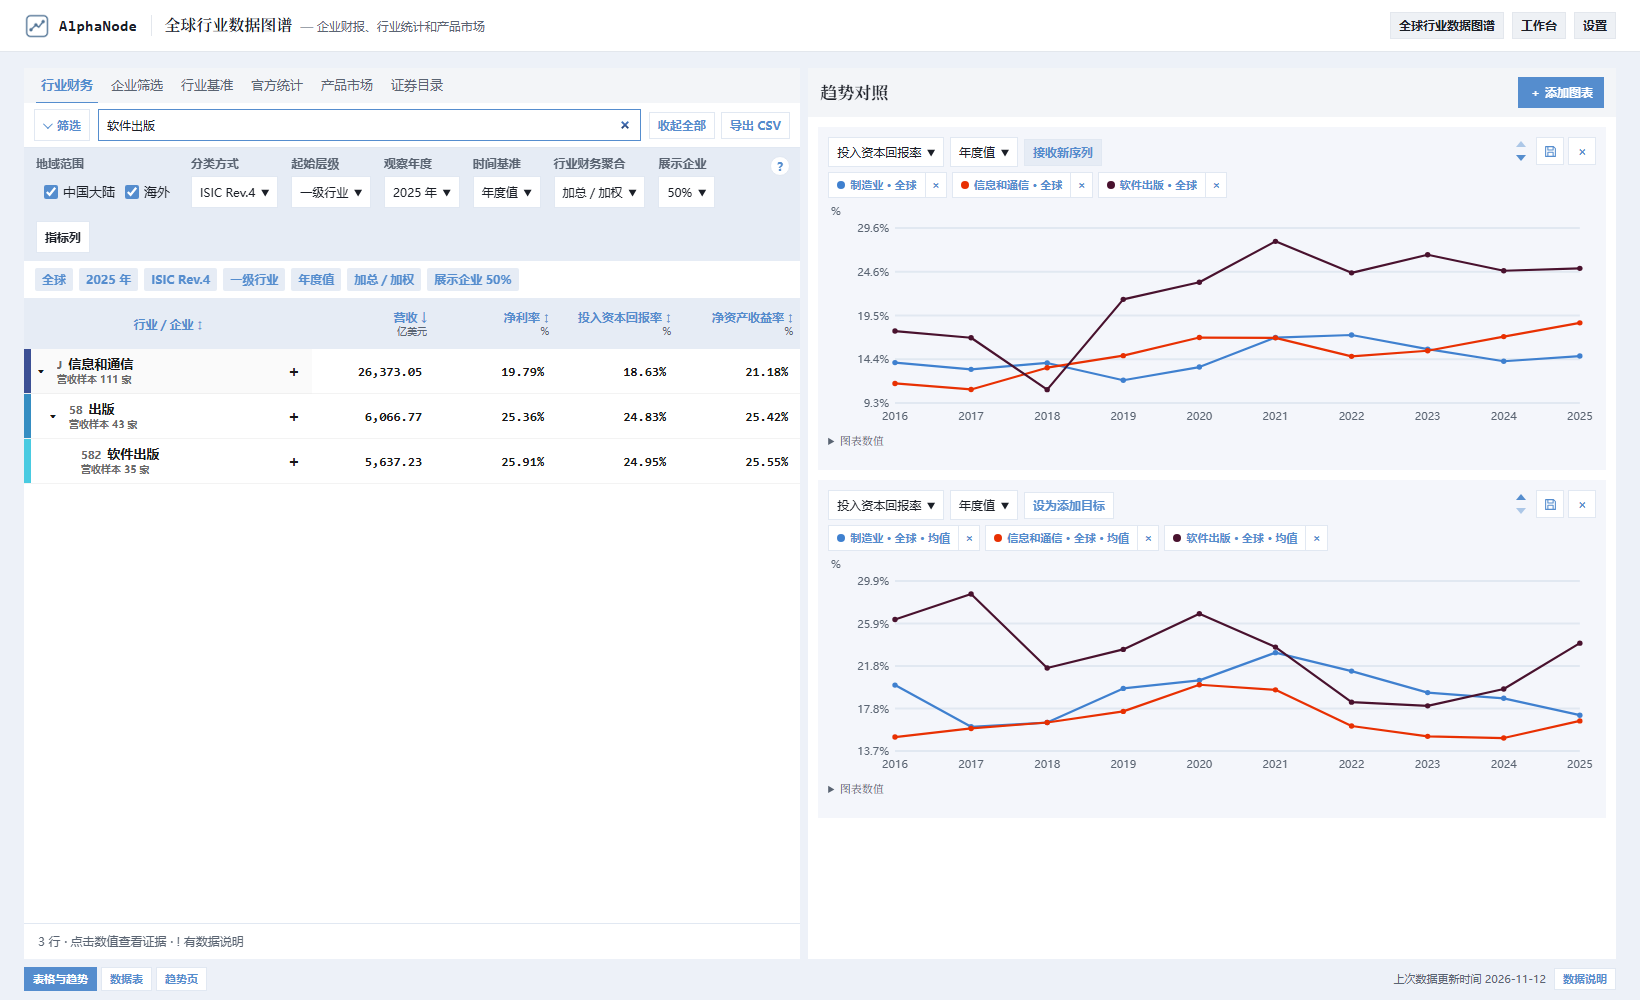
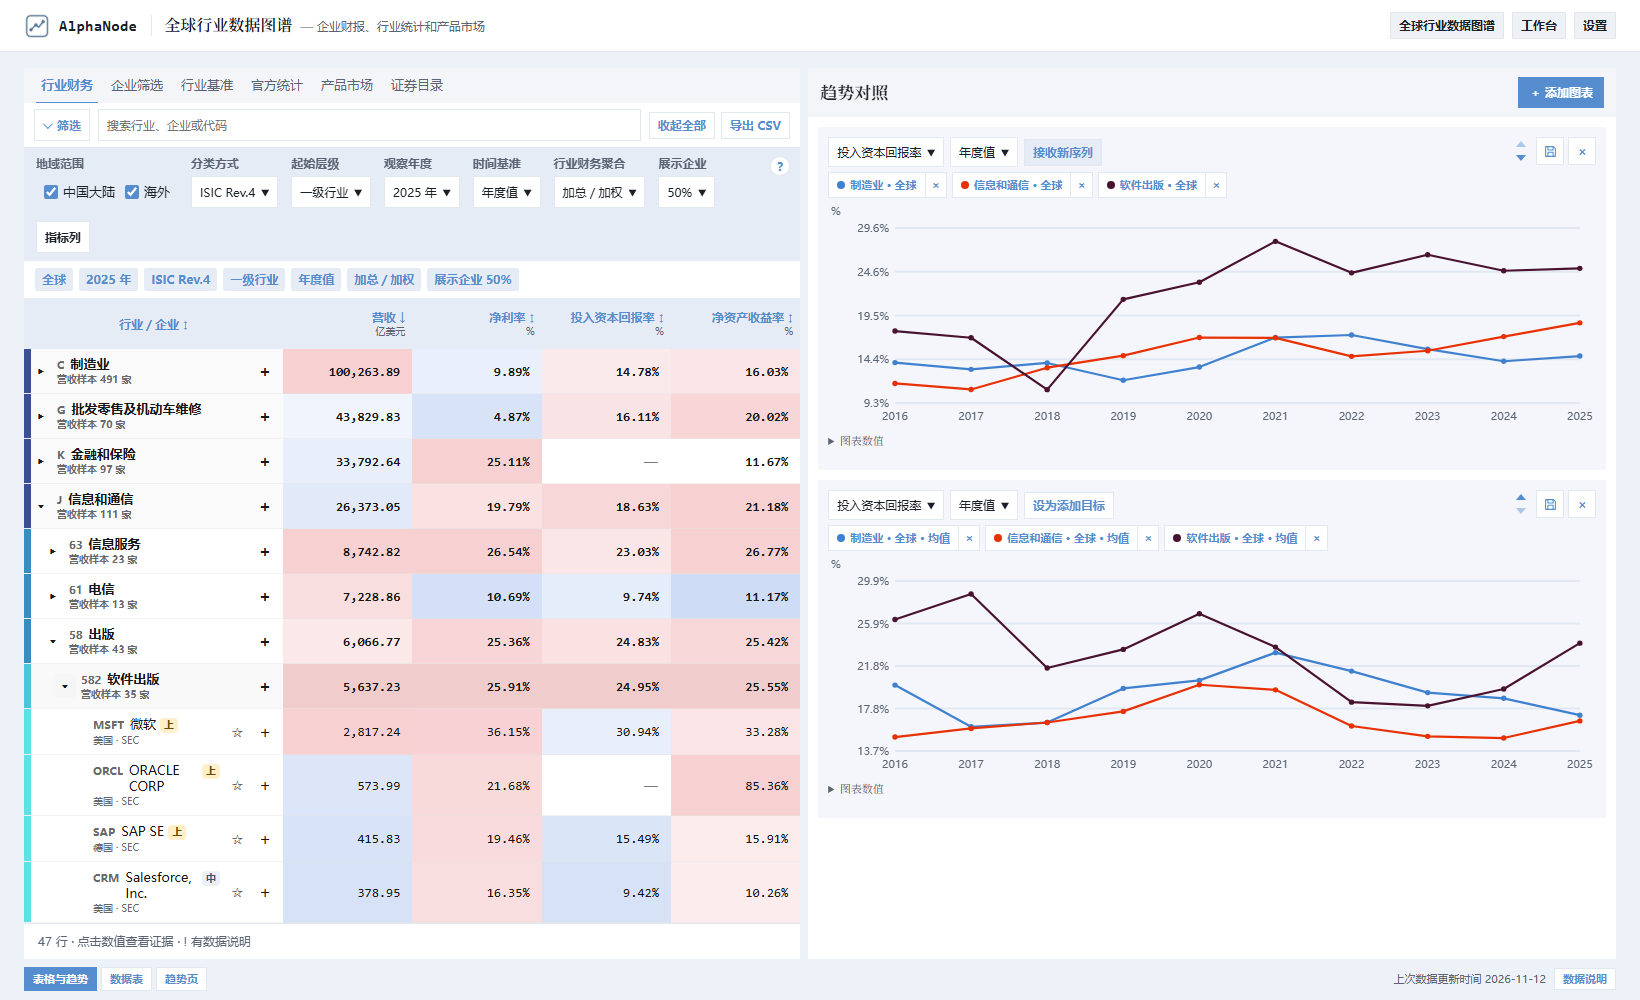
Show the full research workflow in README screenshots

diff --git a/dist/i18n.js b/dist/i18n.js
@@ -3,7 +3,7 @@ const storageKey=workbenchKey;
 export const languages=[
   ["zh","简体中文"],["en","English"],["zh-en","中文（English）"],["en-zh","English（中文）"]
 ];
-const defaults={language:"zh",hints:{},hover:true,watch:[],columns:{},presets:[],align:"finance",indentHierarchy:true,colorHierarchy:true};
+const defaults={language:"zh",hints:{},hover:true,watch:[],columns:{},presets:[],align:"finance",indentHierarchy:true,colorHierarchy:true,heat:true};
 function restore() {
   try {
     const saved=JSON.parse(localStorage.getItem(storageKey)??localStorage.getItem(workbenchKey)) || {};
